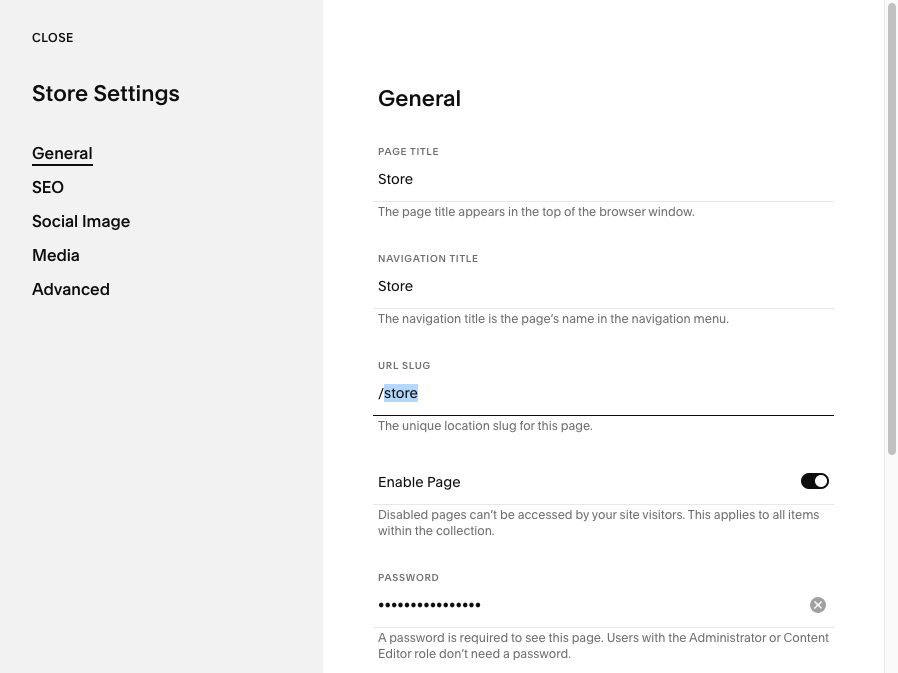
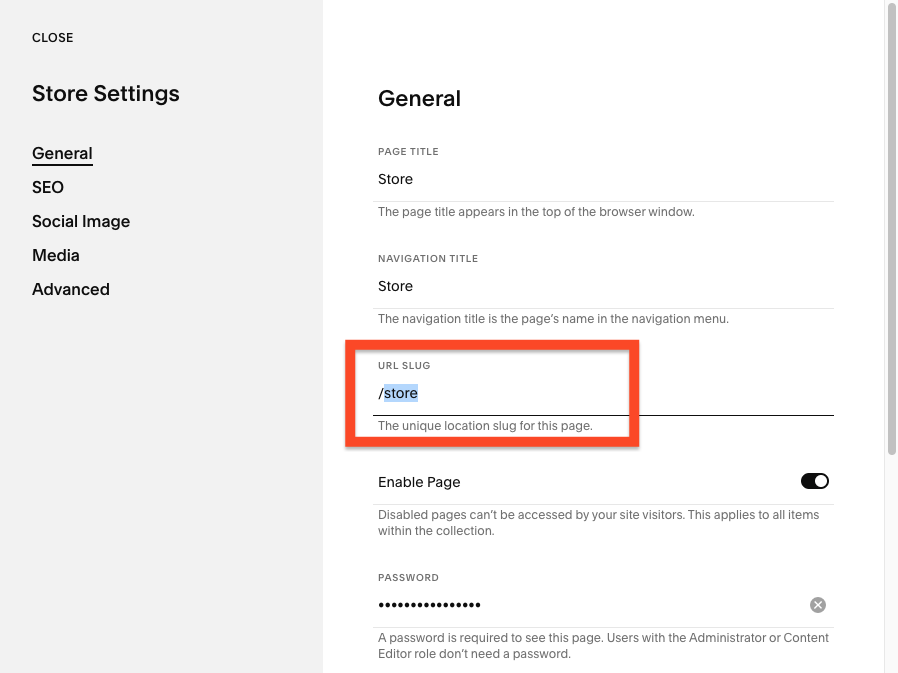
corrected a few more obvious mistakes in the guide

Changed region(s): [[0.3742, 0.4993, 0.7171, 0.6865]]

diff --git a/guide/05_checkout/README.md b/guide/05_checkout/README.md
@@ -6,15 +6,21 @@
     3. Save the variable
     4. To test this, re-start Preview mode in GTM, add a product to cart and visit the cart page (or just visit the cart page if items are already in the cart)<br/>
     After the `ssRawModifyCartPush` event shows up in the "Summary" tab, the `JS - eec.checkout` variable should be populated to reflect the initial state of the cart<br/>
-    We should ALSO see the `DL - EEC Checkout - uniqueProductCount`, `DL - EEC Checkout - totalProductCount`, and `DL - EEC Checkout - totalValue` variables initialized with their corresponding values.<br/>
-    On `ssRawModifyCartPush` variables appear not to be populated correctly (but they actually are):<br/>
-    <img src="../../img/05--Main_Implementation/checkout--01--variable_sanity_check.png"><br/>
-    <br/>
-    On the event right after `ssRawModifyCartPush` variables appear to be updated:<br/>
-    <img src="../../img/05--Main_Implementation/checkout--02--variable_sanity_check2.png"><br/>
-    <br/>
-    Once we modify the cart and the `fireModifyCartTag` event shows up in the "Summary" tab, the `JS - eec.checkout` object should update to reflect the new state of the cart. Either the quantity of of one of the items should have changed, or if an item was removed entirely, it should no longer be present in  the `JS - eec.checkout` object. If all items were removed, the object will look empty.
+    We should ALSO see the `DL - EEC Checkout - uniqueProductCount`, `DL - EEC Checkout - totalProductCount`, and `DL - EEC Checkout - totalValue` variables initialized with their corresponding values.<br/><br/>
 
+On the `ssRawModifyCartPush` event, our variables appear to not be incorrect (but they actually are):<br/>
+<img src="../../img/05--Main_Implementation/checkout--01--variable_sanity_check.png"><br/>
+<br/>
+
+On the event right after `ssRawModifyCartPush` our variables appear to be correct:<br/>
+<img src="../../img/05--Main_Implementation/checkout--02--variable_sanity_check2.png">
+<br/><br/>
+
+Once we modify the cart and the `fireModifyCartTag` event shows up in the "Summary" tab, the `JS - eec.checkout` object should update to reflect the new state of the cart. Either the quantity of of one of the items should have changed, or if an item was removed entirely, it should no longer be present in  the `JS - eec.checkout` object. If all items were removed, the object will look empty.
+
+<br/>
+<br/>
+<br/>
 
 **EEC CHECKOUT DATA STRUCTURE REFERENCE**<br/>
 This is an example of what the EEC data structure for action of type `checkout` looks like with 2 products.

diff --git a/guide/02_detail/README.md b/guide/02_detail/README.md
@@ -7,15 +7,15 @@
     4. Change the word between the quotes (currently set to `store`) to the URL path name of your store, which can be found in the "Store Settings" box.
        1. To find this go to "Pages" and then clicking the gear icon next to your store page.
        2. The path name for your store is the text after the "/" in the text field labeled "URL SLUG". It is case sensitive so make sure not to change the case of any letters. See the image below.
-      
-      <img src="../../img/05--Main_Implementation/detail--01--SS_store_settings.png" height=400>
-
+      <br/>
+      <img src="../../img/05--Main_Implementation/detail--01--SS_store_settings.png" height=500>
+      <br/>
     5. Once you've updated the path in the script tag on the Code Injection page, click "save" to save the changes
     6. back in GTM, start Preview mode to test if it's working. Anytime we visit a product detail page, we should see the event `ssRawProductDetailPush` show up in the Summary tab and the DataLayer variable `DL - SS Raw Product Detail` we created previously should populate. This information is being pulled directly from the `Static.SQUARESPACE_CONTEXT` object which you can inspect using your browser's console.
     
-    
-    <img src="../../img/05--Main_Implementation/detail--02--Test--DL_push.png" height=350>
-
+    <br/>
+    <img src="../../img/05--Main_Implementation/detail--02--Test--DL_push.png" height=400>
+    <br/>
 
 
 2. Use a Custom Javascript Variable to transform the raw data into a `productJSON` and then generate our `detail` EEC data structure (add the actionField with list name if applicable)
@@ -25,7 +25,7 @@
     4. To test this, re-start Preview mode in GTM and visit a product details page. Now we should see the `JS - eec.detail` variable populate with a properly formatted EEC Object. See below for an example of what this looks like.
 
 
-    <img src="../../img/05--Main_Implementation/detail--03--Test--EecObjectPopulated.png" height=150>
+    <img src="../../img/05--Main_Implementation/detail--03--Test--EecObjectPopulated.png">
 
 <br/>
 <br/>

diff --git a/guide/README.md b/guide/README.md
@@ -35,6 +35,7 @@ The following Product Data will be sent (when applicable) along with each of the
 * ID
 * Name
 * Category
+* Variant
 * Price
 * Quantity
 
@@ -94,7 +95,7 @@ The way Squarespace is set up and the way we are implementing EEC makes it diffi
         3.  generate `purchase` EEC data structure
 6.  [Configure tag firing triggers](#SECTION-6-\-\--CONFIGURE-TAG-FIRING-TRIGGERS)
 7.  [Configure EEC tags](#SECTION-7-\-\--CONFIGURE-EEC-TAGS)
-8.  TEST IT THOROUGHLY
+8.  [TEST IT THOROUGHLY](#SECTION-8-\-\--CELEBRATENO-WAITTEST-EVERYTHING-FIRST)
 
 
 
@@ -506,7 +507,7 @@ The process for each of these will be the same:<br/>
 
 
 ---
-# SECTION 8 -- CELEBRATE...NO WAIT...TEST A BUNCH FIRST!!!
+# SECTION 8 -- CELEBRATE...NO WAIT...TEST EVERYTHING FIRST!!!
 Congratulations on making it through. Now the entire implementation needs to be tested. Go through the entire user journey and make sure to trigger each Tag. The testing process should be something like this
 
 1. Complete the customer action that should trigger the tag being tested (like view a products details page)
